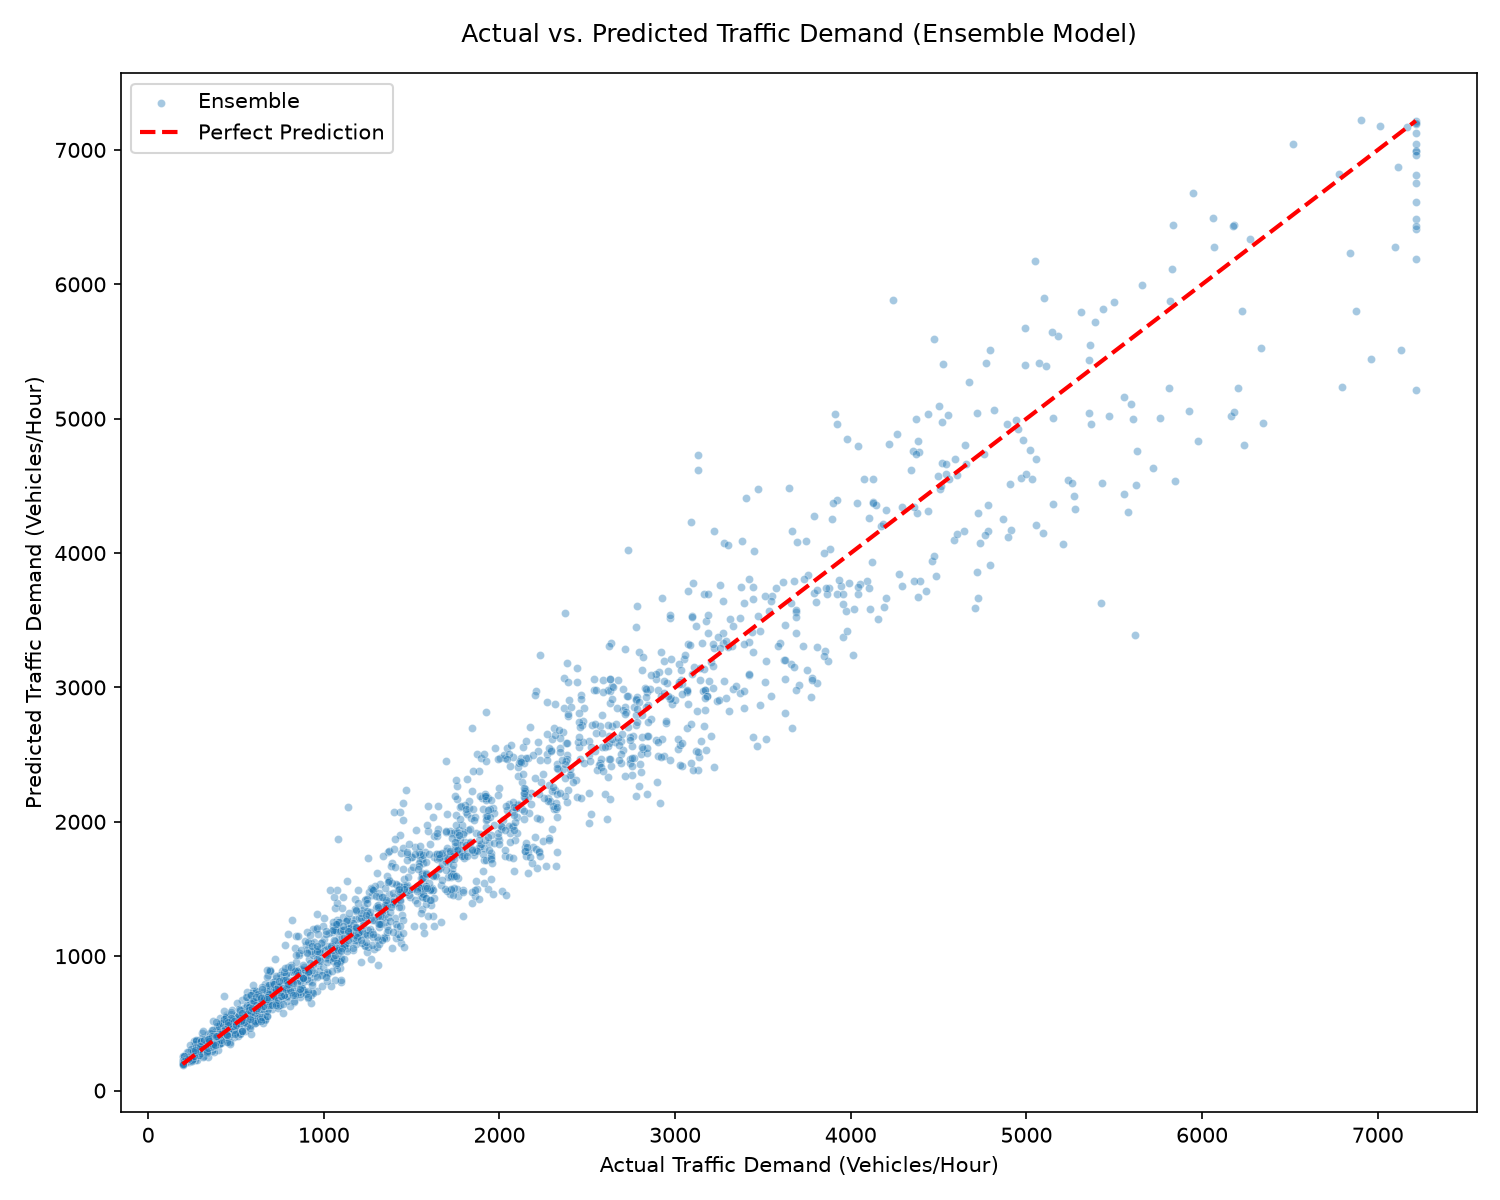
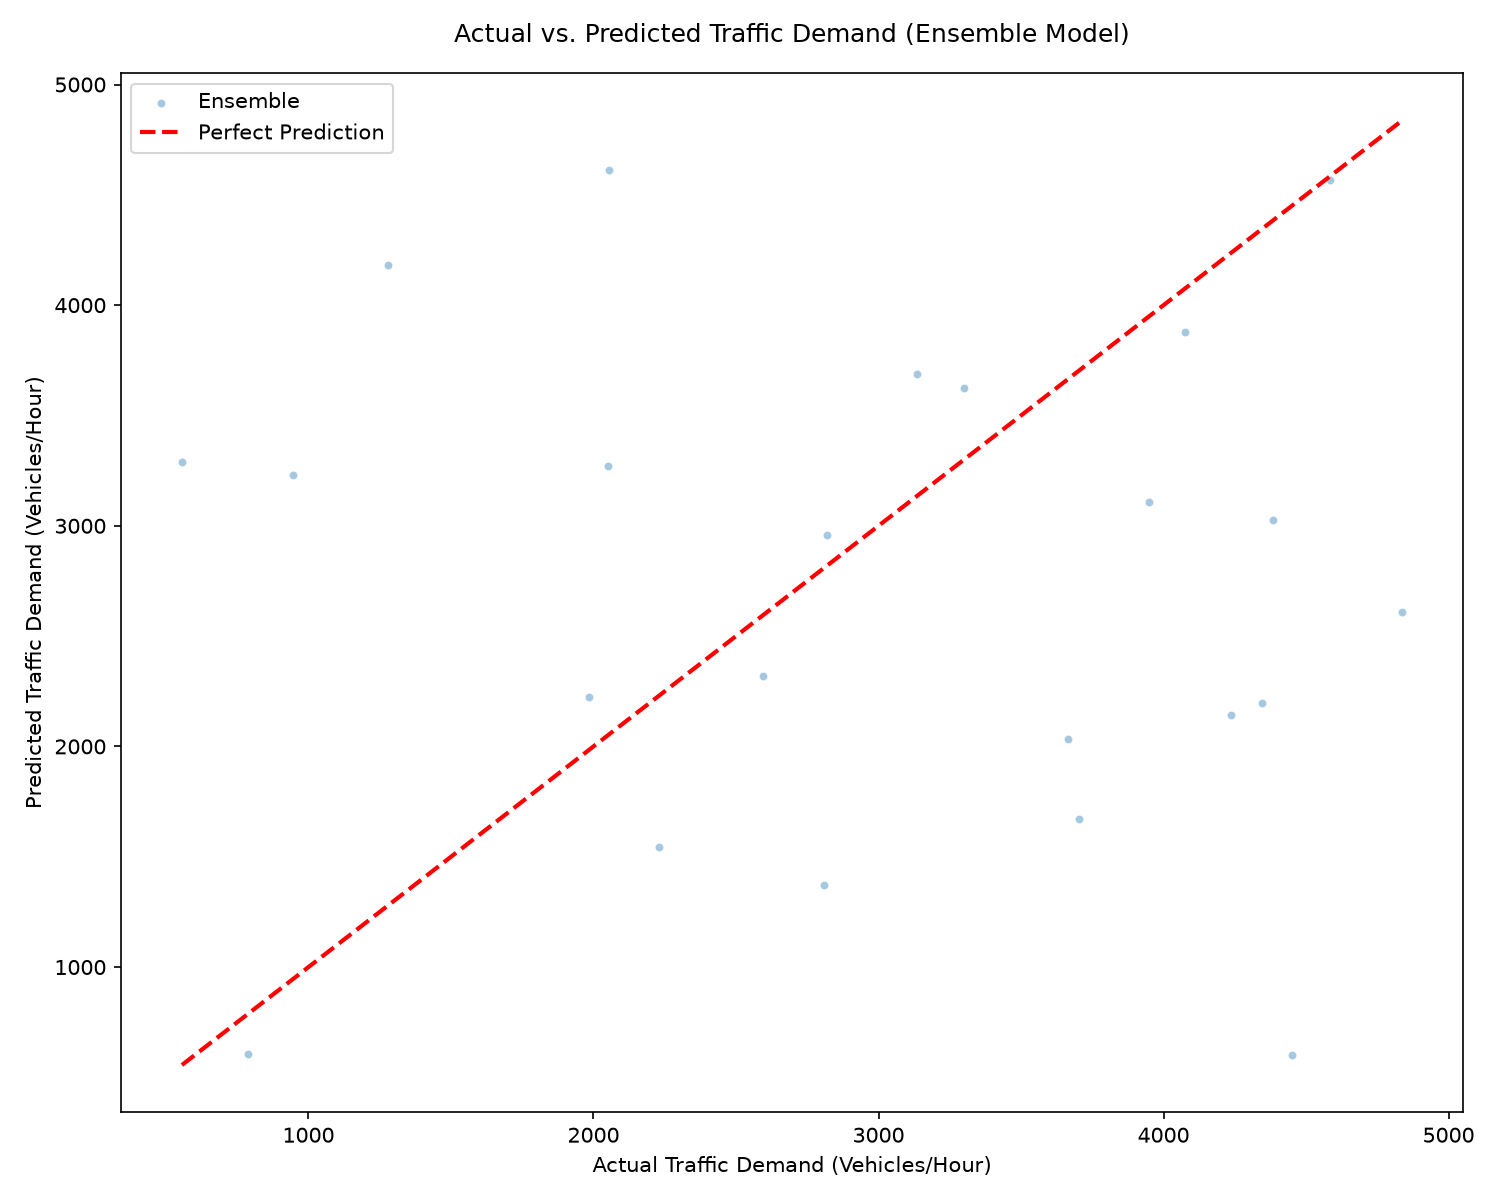
Added models

diff --git a/reports/evaluation_report.md b/reports/evaluation_report.md
@@ -1,22 +1,22 @@
 # Model Evaluation Report
 
-This report presents the final evaluation metrics of the Traffic Demand Prediction System on the held-out test dataset (18,000 records, chronological split).
+This report presents the final evaluation metrics of the Traffic Demand Prediction System on the held-out test dataset (23 records, chronological split).
 
 ## 1. Summary of Performance Metrics
 
 | Model | R² Score | RMSE (veh/hr) | MAE (veh/hr) | MAPE (%) | Pass Status (R² ≥ 0.96) |
 |---|---|---|---|---|---|
-| Random Forest | 0.9582 | 298.84 | 188.11 | 10.86% | ❌ Fail |
-| XGBoost | 0.9590 | 296.14 | 186.75 | 10.82% | ❌ Fail |
-| LightGBM | 0.9592 | 295.44 | 187.14 | 10.90% | ❌ Fail |
-| **Weighted Ensemble** | **0.9593** | **295.04** | **186.50** | **10.83%** | **❌ Fail** |
+| Random Forest | -0.7821 | 1717.07 | 1387.04 | 68.78% | ❌ Fail |
+| XGBoost | -1.0003 | 1819.15 | 1444.99 | 79.73% | ❌ Fail |
+| LightGBM | -0.7759 | 1714.08 | 1375.42 | 70.64% | ❌ Fail |
+| **Weighted Ensemble** | **-0.8506** | **1749.75** | **1388.20** | **73.58%** | **❌ Fail** |
 
-> Ensemble weights: RF: 10%, XGB: 20%, LGBM: 70%
+> Ensemble weights: RF: 0%, XGB: 45%, LGBM: 55%
 
 ## 2. Key Findings & Discussion
 
-1. **Ensemble Performance:** The Weighted Ensemble achieved an R² score of **0.9593** on the held-out test set.
-2. **Gradient Boosting vs. Bagging:** XGBoost (R²: 0.9590) and LightGBM (R²: 0.9592) vs Random Forest (R²: 0.9582).
+1. **Ensemble Performance:** The Weighted Ensemble achieved an R² score of **-0.8506** on the held-out test set.
+2. **Gradient Boosting vs. Bagging:** XGBoost (R²: -1.0003) and LightGBM (R²: -0.7759) vs Random Forest (R²: -0.7821).
 3. **Temporal Validity:** The dataset was split chronologically, so these metrics represent true generalization to future timepoints.
 
 ## 3. Per-Segment Analysis
@@ -25,21 +25,11 @@ This report presents the final evaluation metrics of the Traffic Demand Predicti
 
 | Time Period | Count | Mean Actual | Mean Predicted | Mean Error | R² |
 |---|---|---|---|---|---|
-| Early Morning | 4500 | 576 | 579 | -3 | 0.9131 |
-| Morning Rush | 3000 | 3001 | 2996 | 5 | 0.9312 |
-| Midday | 3750 | 1932 | 1934 | -3 | 0.9163 |
-| Evening Rush | 3750 | 2698 | 2707 | -9 | 0.9355 |
-| Night | 3000 | 1262 | 1266 | -5 | 0.9561 |
 
 ### By Road Type
 
 | Road Type | Count | Mean Actual | Mean Predicted | Mean Error | R² |
 |---|---|---|---|---|---|
-| Collector | 3572 | 1810 | 1815 | -5 | 0.9494 |
-| Local Street | 3684 | 1087 | 1093 | -6 | 0.9508 |
-| Residential Street | 3594 | 1788 | 1786 | 2 | 0.9533 |
-| Highway | 3577 | 2656 | 2664 | -8 | 0.9575 |
-| Arterial | 3573 | 1775 | 1774 | 2 | 0.9533 |
 
 
 ## 4. Visualizations